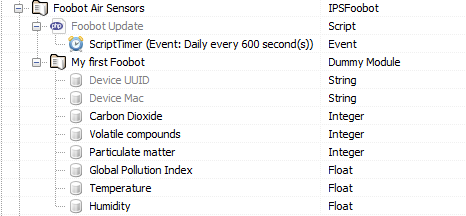
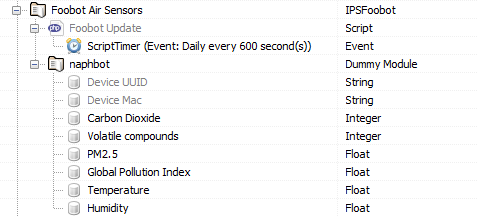
v 0.9
Added pictures for the documentation. Corrected Variable Type for PM2.5.

diff --git a/IPSFoobot/module.php b/IPSFoobot/module.php
@@ -217,7 +217,7 @@ class IPSFoobot extends IPSModule
 					IPS_SetParent($this->GetIDForIdent('Co2'), $FBdeviceModuleID);
 					$this->RegisterVariableInteger("Voc", "Volatile compounds", "Pollutant.VC", 11);
 					IPS_SetParent($this->GetIDForIdent('Voc'), $FBdeviceModuleID);
-					$this->RegisterVariableInteger("Pm", "Particulate matter", "Pollutant.PM", 12);
+					$this->RegisterVariableFloat("Pm", "PM2.5", "Pollutant.PM", 12);
 					IPS_SetParent($this->GetIDForIdent('Pm'), $FBdeviceModuleID);
 					$this->RegisterVariableFloat("Allpollu", "Global Pollution Index", "~Humidity.F", 13);
 					IPS_SetParent($this->GetIDForIdent('Allpollu'), $FBdeviceModuleID);
